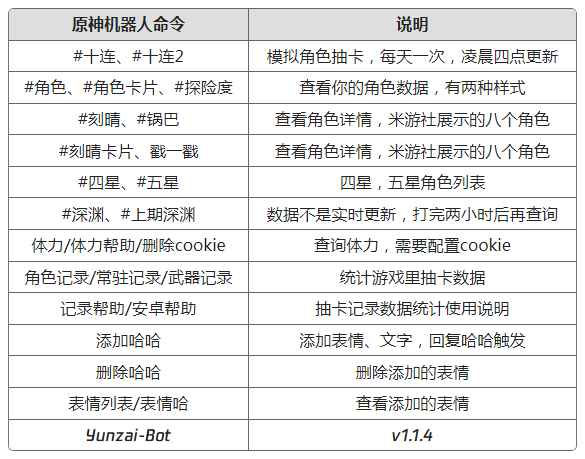
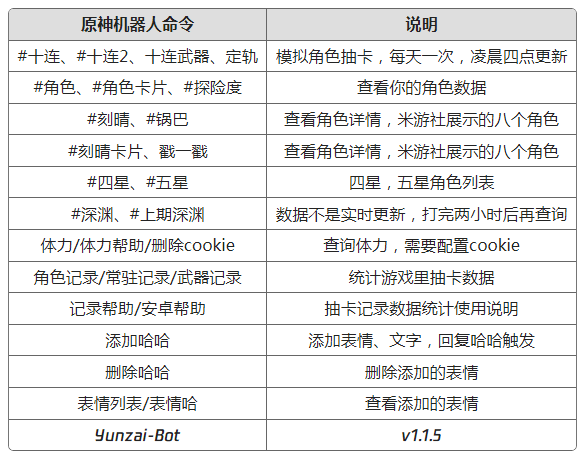
武器十连

diff --git a/lib/app/gacha.js b/lib/app/gacha.js
@@ -137,9 +137,9 @@ async function gacha(e) {
         isUp4: 0, //是否4星大保底
         num5: 0, //5星保底数
         isUp5: 0, //是否5星大保底
-        lifeNum: 0,//命定值
-        type: 1,//0-取消 1-武器1 2-武器2
-      }
+        lifeNum: 0, //命定值
+        type: 1, //0-取消 1-武器1 2-武器2
+      },
     };
   } else {
     gachaData = JSON.parse(gachaData);
@@ -166,7 +166,11 @@ async function gacha(e) {
         msg += `\n本周：${gachaData.week.num}个五星`;
       }
     } else {
-      msg += `今日已抽\n累计${gachaData.num5}抽无五星`;
+      if (e.msg.includes("武器")) {
+        msg += `今日已抽\n累计${gachaData.weapon.num5}抽无五星`;
+      } else {
+        msg += `今日已抽\n累计${gachaData.num5}抽无五星`;
+      }
 
       if (gachaData.week.num >= 2) {
         msg += `\n本周：${gachaData.week.num}个五星`;
@@ -209,7 +213,6 @@ async function gacha(e) {
     upW4 = gachaConfig.pool[gachaConfig.pool.length - 1].weapon4;
     upW5 = gachaConfig.pool[gachaConfig.pool.length - 1].weapon5;
   }
-
 
   if (e.msg.includes("武器")) {
     return gachaWeapon(e, gachaData, upW4, upW5);
@@ -445,12 +448,11 @@ async function gachaWeapon(e, gachaData, upW4, upW5) {
       isUp4: 0, //是否4星大保底
       num5: 0, //5星保底数
       isUp5: 0, //是否5星大保底
-      lifeNum: 0,//命定值
-      type: 1,//0-取消 1-武器1 2-武器2
+      lifeNum: 0, //命定值
+      type: 1, //0-取消 1-武器1 2-武器2
       bingWeapon: upW5[0],
-    }
+    };
   } else {
-
     if (gachaData.weapon.bingWeapon) {
       if (!upW5.includes(gachaData.weapon.bingWeapon)) {
         gachaData.weapon.bingWeapon = upW5[0];
@@ -465,8 +467,8 @@ async function gachaWeapon(e, gachaData, upW4, upW5) {
 
   let bingWeapon;
   if (gachaData.weapon.type > 0) {
-    if (upW5[gachaData.weapon.type-1]) {
-      bingWeapon = upW5[gachaData.weapon.type-1];
+    if (upW5[gachaData.weapon.type - 1]) {
+      bingWeapon = upW5[gachaData.weapon.type - 1];
     }
   }
 
@@ -477,11 +479,13 @@ async function gachaWeapon(e, gachaData, upW4, upW5) {
   //每日抽卡数+1
   gachaData.today.num++;
 
-  let res5 = [], resC4 = [], resW4 = [], resW3 = [];
+  let res5 = [],
+    resC4 = [],
+    resW4 = [],
+    resW3 = [];
 
-  
-  let isBigUP = false;//是否大保底
-  let isBing = false;//是否定轨获取
+  let isBigUP = false; //是否大保底
+  let isBing = false; //是否定轨获取
 
   //循环十次
   for (let i = 1; i <= 10; i++) {
@@ -503,8 +507,7 @@ async function gachaWeapon(e, gachaData, upW4, upW5) {
     //50抽后逐渐增加概率
     else if (gachaData.weapon.num5 >= 45) {
       tmpChance5 = chanceW5 + (gachaData.weapon.num5 - 45) * 60;
-    }
-    else if (gachaData.weapon.num5 >= 10 && gachaData.weapon.num5 <= 20) {
+    } else if (gachaData.weapon.num5 >= 10 && gachaData.weapon.num5 <= 20) {
       tmpChance5 = chanceW5 + (gachaData.weapon.num5 - 10) * 30;
     }
 
@@ -535,7 +538,7 @@ async function gachaWeapon(e, gachaData, upW4, upW5) {
       else if (getRandomInt(100) <= tmpUp) {
         if (gachaData.weapon.isUp5 == 1) {
           isBigUP = true;
-        }else{
+        } else {
           isBigUP = false;
         }
         //大保底清零
@@ -665,7 +668,7 @@ async function gachaWeapon(e, gachaData, upW4, upW5) {
   if (isBigUP) {
     info += "大保底";
   }
-  
+
   let base64 = await render("genshin", "gacha", {
     save_id: user_id,
     name: e.sender.card,
@@ -704,7 +707,6 @@ async function weaponBing(e) {
     upW5 = gachaConfig.pool[gachaConfig.pool.length - 1].weapon5;
   }
 
-
   let key = `genshin:gacha:${user_id}`;
 
   let gachaData = await global.redis.get(key);
@@ -723,34 +725,32 @@ async function weaponBing(e) {
         isUp4: 0, //是否4星大保底
         num5: 0, //5星保底数
         isUp5: 0, //是否5星大保底
-        lifeNum: 0,//命定值
-        type: 0,//0-取消 1-武器1 2-武器2 
+        lifeNum: 0, //命定值
+        type: 0, //0-取消 1-武器1 2-武器2
         bingWeapon: upW5[0],
-      }
+      },
     };
-  }
-  else if (!gachaData.weapon) {
+  } else if (!gachaData.weapon) {
     gachaData.weapon = {
       num4: 0, //4星保底数
       isUp4: 0, //是否4星大保底
       num5: 0, //5星保底数
       isUp5: 0, //是否5星大保底
-      lifeNum: 0,//命定值
-      type: 1,//0-取消 1-武器1 2-武器2
+      lifeNum: 0, //命定值
+      type: 1, //0-取消 1-武器1 2-武器2
       bingWeapon: upW5[0],
-    }
+    };
   }
   let msg;
 
   if (gachaData.weapon.type >= 2) {
     gachaData.weapon.type = 0;
-    gachaData.weapon.bingWeapon = '';
+    gachaData.weapon.bingWeapon = "";
     msg = "\n定轨已取消";
-  }
-  else{
+  } else {
     gachaData.weapon.type++;
-    gachaData.weapon.bingWeapon = upW5[gachaData.weapon.type-1];
-    msg = "\n定轨成功：" + upW5[gachaData.weapon.type-1];
+    gachaData.weapon.bingWeapon = upW5[gachaData.weapon.type - 1];
+    msg = "\n定轨成功：" + upW5[gachaData.weapon.type - 1];
   }
 
   gachaData.weapon.lifeNum = 0;

diff --git a/resources/help/help.html b/resources/help/help.html
@@ -71,7 +71,7 @@
           <th>说明</th>
         </tr>
         <tr>
-          <td>#十连、#十连2</td>
+          <td>#十连、#十连2、十连武器、定轨</td>
           <td>模拟角色抽卡，每天一次，凌晨四点更新</td>
         </tr>
         <tr>
@@ -120,7 +120,7 @@
         </tr>
         <tr>
           <td class="logo">Yunzai-Bot</td>
-          <td class="logo">v1.1.4</td>
+          <td class="logo">v1.1.5</td>
         </tr>
       </table>
     </div>
